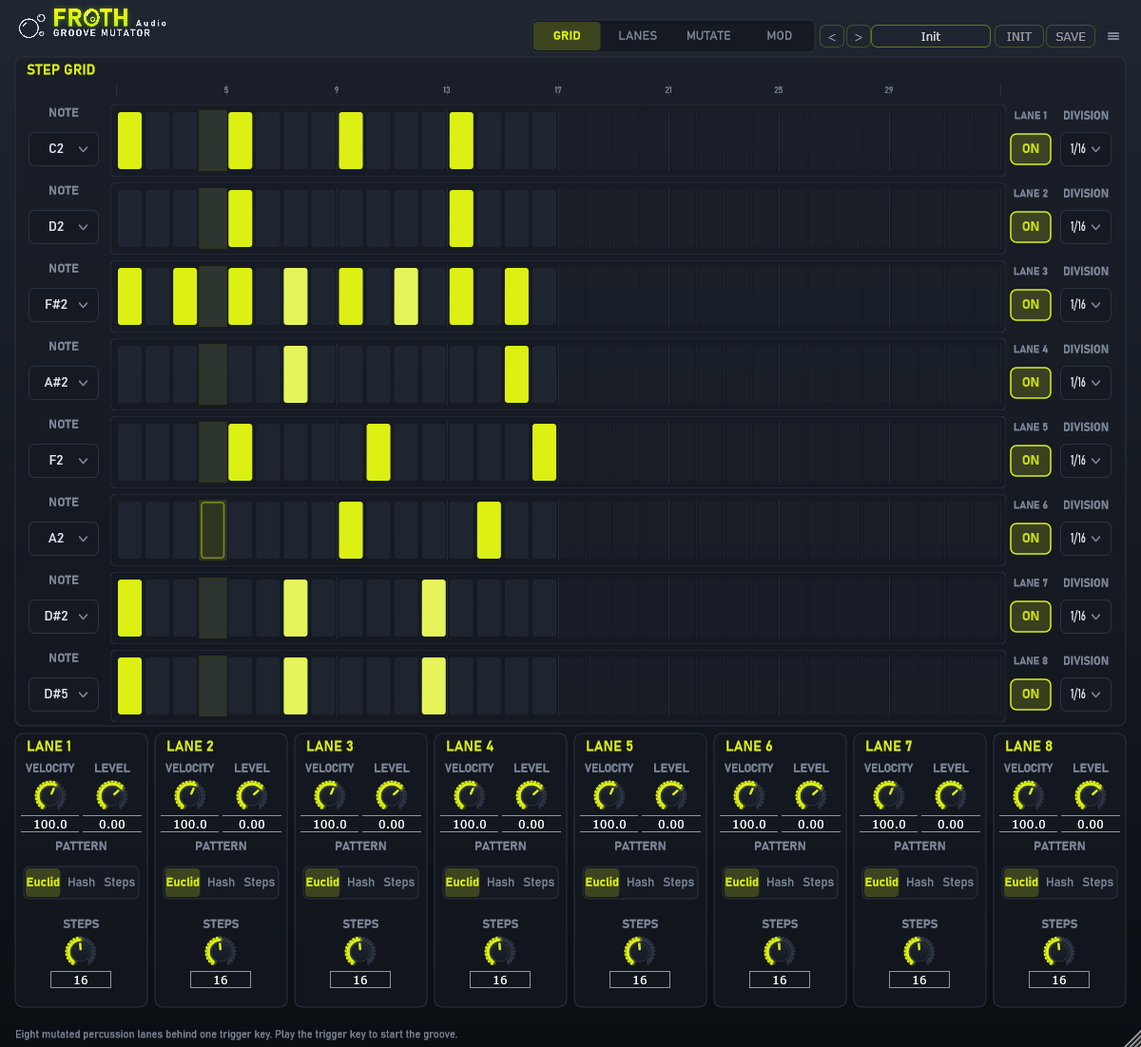
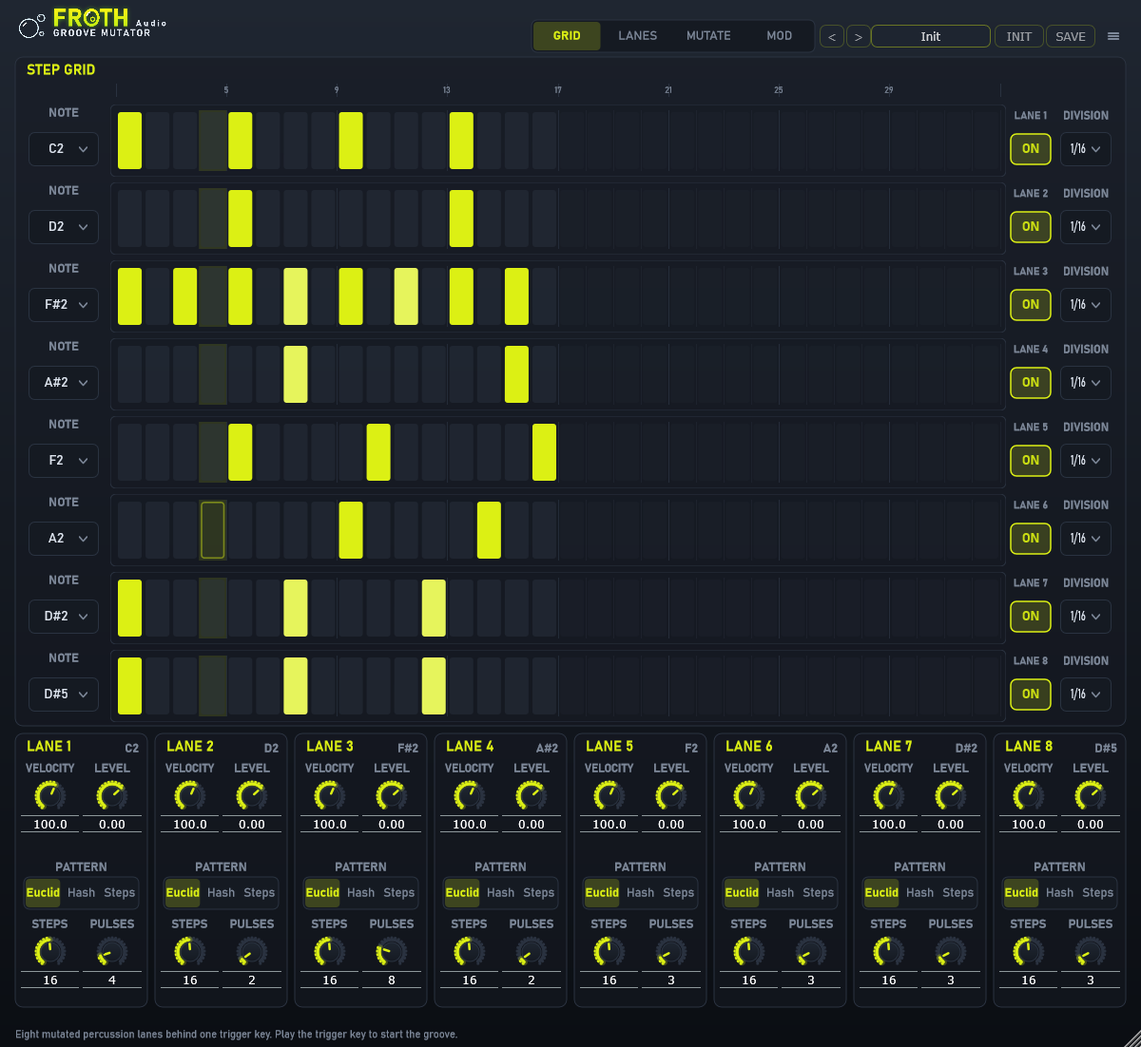
feat(GrooveMutator): Implement findings round 4, including PULSES beside STEPS on GRID and read-only STEP GRID preview on LANES

diff --git a/plugins/GrooveMutator/Source/PluginEditor.cpp b/plugins/GrooveMutator/Source/PluginEditor.cpp
@@ -25,6 +25,18 @@ namespace
     // larger" permission. 92 px is the pre-0.7 suite cell; 92 − 18 caption ≥ 64 px slider
     // bounds, so these knobs render at the full suite 40 px.
     constexpr int lanesKnobRowHeight = 92;
+    // Findings round 4: the PATTERN selector hugs the bottom of its row (caption directly
+    // on the pill, the spare height above the caption).
+    constexpr int patternCellHeight = SuiteUI::captionHeight + SuiteUI::pillHeight;
+    // Findings round 4, finding 2: the LANES page's read-only STEP GRID preview — eight
+    // miniature LaneViews in a framed group above the lane cards.
+    constexpr int previewStripHeight = 28;
+    constexpr int previewRowGap = 4;
+    // Each strip's "LANE n" label, left of it (the owner's follow-up).
+    constexpr int previewNameWidth = 50;
+    constexpr int previewNameGap = 8;
+    constexpr int previewGroupHeight = groupTitleHeight + 4
+                                     + 8 * previewStripHeight + 7 * previewRowGap + 8;
     // The note dropdown and ruler share the same left inset; velocity and level live below.
     constexpr int laneNameWidth = 82;
     constexpr int laneNameGap = 8;
@@ -127,6 +139,23 @@ GrooveMutatorEditor::GrooveMutatorEditor (GrooveMutatorProcessor& p)
     // The eight lane cards before setSize() as well: the first resized() walks them.
     for (int track = 0; track < GrooveMutatorProcessor::numTracks; ++track)
         lanes[(size_t) track] = std::make_unique<LaneCard> (processor, track, juce::Colour (0xffdcf014));
+
+    // The LANES page's preview strips before setSize() too (they are laid out on page 1).
+    for (int track = 0; track < GrooveMutatorProcessor::numTracks; ++track)
+    {
+        gridPreviews[(size_t) track] = std::make_unique<LaneView> (processor, track,
+                                                                   juce::Colour (0xffdcf014), true);
+        addAndMakeVisible (*gridPreviews[(size_t) track]);
+
+        // The strip's lane name (the owner's follow-up to the preview).
+        auto& previewName = previewNames[(size_t) track];
+        previewName.setText ("LANE " + juce::String (track + 1), juce::dontSendNotification);
+        previewName.setJustificationType (juce::Justification::centredRight);
+        previewName.setFont (SuiteUI::uiFont (11.0f, true));
+        previewName.setColour (juce::Label::textColourId, SuiteUI::Colours::textDim);
+        previewName.setInterceptsMouseClicks (false, false);
+        addAndMakeVisible (previewName);
+    }
 
     setSize (editorWidth, editorHeight);
     setResizable (true, true);
@@ -323,7 +352,9 @@ void GrooveMutatorEditor::setPage (int newPage)
     for (auto& card : lanes)
     {
         card->view.setVisible (currentPage == 0);
-        card->name.setVisible (currentPage == 1);
+        // Finding 4: the note name rides right of the "LANE n" caption on both the GRID
+        // lane-mix groups and the LANES title bands (the timer keeps it in step).
+        card->name.setVisible (currentPage == 0 || currentPage == 1);
         card->laneNameLabel.setVisible (currentPage == 0);
         card->noteDropdown.setVisible (currentPage == 0);
         card->velCtrl.setVisible (currentPage == 0);
@@ -333,12 +364,17 @@ void GrooveMutatorEditor::setPage (int newPage)
 
         card->patternCtrl.setVisible (currentPage == 0);
         card->stepsCtrl.setVisible (currentPage == 0);
-        card->pulsesCtrl.setVisible (currentPage == 1);
+        card->pulsesCtrl.setVisible (currentPage == 0);
         card->rotationCtrl.setVisible (currentPage == 1);
         card->accentCtrl.setVisible (currentPage == 1);
         card->flamCtrl.setVisible (currentPage == 1);
         card->ghostCtrl.setVisible (currentPage == 1);
     }
+
+    for (auto& preview : gridPreviews)
+        preview->setVisible (currentPage == 1);
+    for (auto& previewName : previewNames)
+        previewName.setVisible (currentPage == 1);
 
     trailPlot.setVisible (currentPage == 2);
     chaosCtrl.setVisible (currentPage == 2);
@@ -387,8 +423,11 @@ void GrooveMutatorEditor::paint (juce::Graphics& g)
     }
     else if (currentPage == 1)
     {
+        // The read-only STEP GRID preview above the lane cards (findings round 4).
+        SuiteUI::drawGroupFrame (g, previewBounds, "STEP GRID", lookAndFeel.getAccent());
+
         // One framed column per lane (plan 22, Finding 6): eight channel strips, each with
-        // the lane label and note name, the pattern selector and the six knobs.
+        // the lane label and note name, and the articulation knobs.
         for (int track = 0; track < GrooveMutatorProcessor::numTracks; ++track)
             SuiteUI::drawGroupFrame (g, laneBounds[(size_t) track],
                                      "LANE " + juce::String (track + 1), lookAndFeel.getAccent());
@@ -495,15 +534,32 @@ void GrooveMutatorEditor::resized()
             card.velCtrl.setBounds (row1.removeFromLeft (controlWidth).reduced (2, 0));
             card.levelCtrl.setBounds (row1.reduced (2, 0));
 
-            // Phase 24.2: PATTERN and STEPS now live on the GRID lane-control group, one
-            // per row (the plan's Option A — sharing a row with a knob — truncates the
-            // three-segment selector to illegibility at this 131 px group width, confirmed
-            // by the first render; Option B's extra height fits: window 1102 < 1200).
+            // Phase 24.2 / findings round 4: PATTERN and STEPS (+PULSES) live on the GRID
+            // lane-control group, one row each. The selector hugs the bottom of its row
+            // (finding 3: the caption sits directly on the pill, the spare height above
+            // the caption); a full-width pill is required — sharing a row with a knob
+            // truncates the three segments to illegibility (the plan-24 render finding).
             controlsArea.removeFromTop (rowGap);
-            card.patternCtrl.setBounds (controlsArea.removeFromTop (knobRowHeight).reduced (2, 0));
+            {
+                auto patternRow = controlsArea.removeFromTop (knobRowHeight);
+                card.patternCtrl.setBounds (patternRow.removeFromBottom (patternCellHeight)
+                                                .reduced (2, 0));
+            }
 
+            // Finding 1: PULSES moved from LANES beside STEPS, the same split as above.
             controlsArea.removeFromTop (rowGap);
-            card.stepsCtrl.setBounds (controlsArea.removeFromTop (knobRowHeight));
+            {
+                auto stepsRow = controlsArea.removeFromTop (knobRowHeight);
+                card.stepsCtrl.setBounds (stepsRow.removeFromLeft (stepsRow.getWidth() / 2)
+                                              .reduced (2, 0));
+                card.pulsesCtrl.setBounds (stepsRow.reduced (2, 0));
+            }
+
+            // Finding 4: the note name rides in the group's title band, right of the
+            // "LANE n" caption (the LANES title-band pattern; the timer keeps it in step).
+            card.name.setBounds (laneBounds[(size_t) track]
+                                     .withHeight (groupTitleHeight + 4).translated (0, 4)
+                                     .removeFromRight (44).reduced (4, 0));
 
             if (track < GrooveMutatorProcessor::numTracks - 1)
                 area.removeFromLeft (groupGap);
@@ -511,13 +567,29 @@ void GrooveMutatorEditor::resized()
     }
     else if (currentPage == 1)
     {
-        // Plan 22, Finding 6: eight columns, one framed card per lane. Every card is the
-        // page's full height: the label band, then the five articulation knobs evenly
-        // spread down the column (a channel strip). PATTERN and STEPS moved to the GRID
-        // lane-control group (plan 24), so the rows use the taller lanesKnobRowHeight.
-        // The cards stop above the footer band, exactly where the GRID group ends on
-        // page 0.
+        // Findings round 4, finding 2: the read-only STEP GRID preview band above the lane
+        // cards, then plan 22, Finding 6's eight framed columns. The cards fill what
+        // remains below the preview, stopping above the footer band.
         area.removeFromBottom (footerHeight);
+        previewBounds = area.removeFromTop (previewGroupHeight);
+
+        {
+            auto previewInner = previewBounds.withTrimmedTop (groupTitleHeight + 4)
+                                             .reduced (10, 4);
+            for (int track = 0; track < GrooveMutatorProcessor::numTracks; ++track)
+            {
+                auto previewRow = previewInner.removeFromTop (previewStripHeight);
+                previewNames[(size_t) track].setBounds (previewRow.removeFromLeft (previewNameWidth));
+                previewRow.removeFromLeft (previewNameGap);
+                gridPreviews[(size_t) track]->setBounds (previewRow);
+
+                if (track < GrooveMutatorProcessor::numTracks - 1)
+                    previewInner.removeFromTop (previewRowGap);
+            }
+        }
+
+        area.removeFromTop (groupGap);
+
         constexpr int numLanes = GrooveMutatorProcessor::numTracks;
         const int cardWidth = (area.getWidth() - (numLanes - 1) * groupGap) / numLanes;
 
@@ -535,15 +607,15 @@ void GrooveMutatorEditor::resized()
             auto inner = cardArea.withTrimmedTop (groupTitleHeight + 4).reduced (4, 0)
                                  .withTrimmedBottom (8);
 
-            // Five knobs, one per row, with the spare height shared between the rows.
-            constexpr int rows = 5;
+            // Four articulation knobs, one per row (Pulses moved to GRID, findings
+            // round 4), with the spare height shared between the rows.
+            constexpr int rows = 4;
             const int spare = inner.getHeight() - rows * lanesKnobRowHeight;
             const int gap = juce::jmax (rowGap, spare / rows);
             inner.removeFromTop (gap);
 
             SuiteUI::LabelledSlider* knobRows[rows] =
-                { &card.pulsesCtrl, &card.rotationCtrl,
-                  &card.accentCtrl, &card.flamCtrl, &card.ghostCtrl };
+                { &card.rotationCtrl, &card.accentCtrl, &card.flamCtrl, &card.ghostCtrl };
 
             for (int row = 0; row < rows; ++row)
             {
@@ -651,6 +723,9 @@ void GrooveMutatorEditor::timerCallback()
     trailPlot.repaint();
     for (auto& card : lanes)
         card->view.repaint();
+    // The LANES preview strips follow the same truth as the GRID ones (findings round 4).
+    for (auto& preview : gridPreviews)
+        preview->repaint();
 
     // The lane names follow the notes (the MTC/Sgraffito note-name pattern).
     for (auto& card : lanes)

diff --git a/plugins/GrooveMutator/Source/PluginEditor.h b/plugins/GrooveMutator/Source/PluginEditor.h
@@ -40,6 +40,8 @@ public:
     bool isNoteDropdownVisible (int track) const noexcept { return lanes[(size_t) track]->noteDropdown.isVisible(); }
     bool isPatternVisible (int track) const noexcept { return lanes[(size_t) track]->patternCtrl.isVisible(); }
     bool isStepsVisible (int track) const noexcept { return lanes[(size_t) track]->stepsCtrl.isVisible(); }
+    bool isPulsesVisible (int track) const noexcept { return lanes[(size_t) track]->pulsesCtrl.isVisible(); }
+    bool isGridPreviewVisible (int track) const noexcept { return gridPreviews[(size_t) track]->isVisible(); }
     bool isTempoEnabled() const noexcept { return tempoCtrl.isEnabled(); }
 
 private:
@@ -107,6 +109,13 @@ private:
 
     std::array<std::unique_ptr<LaneCard>, GrooveMutatorProcessor::numTracks> lanes;
 
+    // The LANES page's read-only STEP GRID preview (findings round 4, finding 2): eight
+    // preview-mode LaneViews above the lane cards. They paint the same truth as the GRID
+    // strips and answer no mouse.
+    std::array<std::unique_ptr<LaneView>, GrooveMutatorProcessor::numTracks> gridPreviews;
+    // Each preview strip's "LANE n" name, left of it (the owner's follow-up).
+    std::array<juce::Label, GrooveMutatorProcessor::numTracks> previewNames;
+
     // MUTATE page: the attractor trail, chaos/fill, and the former GROOVE/clock groups.
     SuiteUI::TrailPlot trailPlot { juce::Colour (0xffdcf014) };
     SuiteUI::LabelledSlider chaosCtrl { "CHAOS", juce::Slider::RotaryVerticalDrag };
@@ -154,7 +163,7 @@ private:
     std::unique_ptr<SuiteModulation::ControlDisplay> controls;
 
     // The group frames and the ruler strip, painted per page (R14b).
-    juce::Rectangle<int> gridBounds, rulerBounds;
+    juce::Rectangle<int> gridBounds, rulerBounds, previewBounds;
     std::array<juce::Rectangle<int>, GrooveMutatorProcessor::numTracks> laneBounds;
     juce::Rectangle<int> trailBounds, chaosBounds, fillBounds;
     juce::Rectangle<int> grooveBounds, clockBounds, modBounds;

diff --git a/plugins/GrooveMutator/Source/LaneView.cpp b/plugins/GrooveMutator/Source/LaneView.cpp
@@ -10,12 +10,22 @@ namespace
     }
 }
 
-LaneView::LaneView (GrooveMutatorProcessor& p, int trackIndex, juce::Colour accentColour)
+LaneView::LaneView (GrooveMutatorProcessor& p, int trackIndex, juce::Colour accentColour,
+                     bool previewStrip)
     : processor (p),
       track (trackIndex),
-      accent (accentColour)
+      accent (accentColour),
+      preview (previewStrip)
 {
-    setMouseCursor (juce::MouseCursor::PointingHandCursor);
+    if (preview)
+    {
+        // The preview strip never answers the mouse (finding 2: non-editable).
+        setInterceptsMouseClicks (false, false);
+    }
+    else
+    {
+        setMouseCursor (juce::MouseCursor::PointingHandCursor);
+    }
     setOpaque (false);
 }
 
@@ -125,7 +135,8 @@ void LaneView::paint (juce::Graphics& g)
     }
 
     // The Steps-mode affordance: the strip answers the draw-mode rule (plan 19 Phase 3).
-    if (stepsMode)
+    // The preview strips skip it (they are never editable).
+    if (stepsMode && ! preview)
     {
         g.setColour (SuiteUI::Colours::textDim);
         g.setFont (SuiteUI::uiFont (9.0f));

diff --git a/plugins/GrooveMutator/Source/LaneView.h b/plugins/GrooveMutator/Source/LaneView.h
@@ -16,11 +16,17 @@
     Draw mode: clicking a cell paints or erases the step while the lane's pattern is
     Steps (kind 2); in Euclid and Hash modes the strip is read-only (the pattern comes
     from the maths, not from a mask).
+
+    Preview strips (owner findings round 4, finding 2): constructed with previewStrip =
+    true they are the same painter as a non-editable miniature — no pointer cursor, no
+    mouse events, no "draw" affordance. The LANES page stacks eight of them as a compact
+    read-only STEP GRID preview.
 */
 class LaneView : public juce::Component
 {
 public:
-    LaneView (GrooveMutatorProcessor& processor, int track, juce::Colour accentColour);
+    LaneView (GrooveMutatorProcessor& processor, int track, juce::Colour accentColour,
+              bool previewStrip = false);
 
     void paint (juce::Graphics&) override;
     void mouseDown (const juce::MouseEvent&) override;
@@ -29,6 +35,7 @@ private:
     GrooveMutatorProcessor& processor;
     const int track;
     juce::Colour accent;
+    const bool preview;
 
     JUCE_DECLARE_NON_COPYABLE_WITH_LEAK_DETECTOR (LaneView)
 };

diff --git a/plugins/GrooveMutator/tests/PluginTests.cpp b/plugins/GrooveMutator/tests/PluginTests.cpp
@@ -785,6 +785,10 @@ namespace
                 // Plan 24: PATTERN and STEPS live on the GRID lane-control group.
                 assert (gm.isPatternVisible (track) == (page == 0));
                 assert (gm.isStepsVisible (track) == (page == 0));
+                // Findings round 4: PULSES beside STEPS on GRID; the read-only preview
+                // strips live on LANES only.
+                assert (gm.isPulsesVisible (track) == (page == 0));
+                assert (gm.isGridPreviewVisible (track) == (page == 1));
             }
             const auto first = paintComponent (gm);
             const auto second = paintComponent (gm);

diff --git a/plugins/GrooveMutator/MANUAL.md b/plugins/GrooveMutator/MANUAL.md
@@ -23,31 +23,35 @@ the MOD page uses a royal-blue LFO preview accent.
 The musical view: eight lane rows over a shared step ruler, with eight compact lane-mix
 columns below them. Each row carries the lane's pattern strip (the LaneView), note selector,
 division and on/off control, with the lane's name (**LANE 1** … **LANE 8**) directly above
-the on/off control, so every row is tied to its column below without switching pages:
+the on/off control and the lane's note right of the column's title, so every row is tied to
+its column below without switching pages:
 
 | Control | Range | What it does |
 |---|---|---|
 | **Pattern strip** | — | The lane's pattern. A filled box is a hit, a brighter box an accent, a ring a ghost, a hollow box a fill addition (audible, but not one of your painted steps) and a hole in the box a flam — the same hash rules the scheduler uses. Off steps are a faint box and cells beyond the lane's Steps a dimmer one, so the pattern and its length read at a glance. The playhead column marks the step the lane is on. In **Steps** mode the strip answers draw mode: click a cell to paint or erase that step (the painted pattern travels with the session). Steps lanes are the authoring mode — Chaos never moves a painted pattern, so the strip always matches what plays. In Euclid and Hash modes the strip shows the live, mutated pattern and is read-only. |
-| **Note** | 24 – 96 | The dropdown selects the GM note the lane sends (shown as a note name). Defaults walk the drum map: kick, snare, closed/open hat, low/mid tom, clap, claves. |
+| **Note** | 24 – 96 | The dropdown selects the GM note the lane sends (shown as a note name). Defaults walk the drum map: kick, snare, closed/open hat, low/mid tom, clap, claves. The selected note is also shown right of the matching column's title below the strips. |
 | **On** | on / off | The lane plays while it is on. Tracks 1–4 are on by default. The lane's name sits right above it. |
 | **Division** | 1/32 … 1 Bar | The lane's own step length, scaled by the master Polyrhythm. |
 | **Velocity** | 30 – 150 % | The lane's velocity share, in the matching column below the strips. A modulation target (one per lane). |
 | **Level** | −24 – +12 dB | The lane's level stage, beside Velocity below the strips. A modulation target (one per lane). |
 | **Pattern** | Euclid / Hash / Steps | The lane's pattern kind, in the matching column below the strips. Euclid spreads the Pulses evenly over the Steps (with Rotation); Hash uses the seeded pattern (Pulses read as density); Steps plays the painted mask. |
 | **Steps** | 1 – 32 | The pattern length, beside Pattern. Re-derives the lane's mask. |
+| **Pulses** | 0 – 32 | The hit count, beside Steps. Dimmed for Steps lanes. |
 
 ## Page: LANES
 
 <img src="../../docs/manuals/groovemutator-lanes.png" alt="LANES page" width="800">
 
 One framed column per lane, titled **LANE 1** to **LANE 8** with the lane's note name in the
-title band. Each column holds the lane's five articulation knobs (the pattern selector and
-the Steps length moved to the GRID page's lane columns), so a lane's articulation is read
-top to bottom in one place:
+title band. Above the columns a compact, read-only **STEP GRID** preview shows all eight
+lanes' patterns at once, each strip named **LANE 1** … **LANE 8** at its left (the same
+painter as the GRID strips — boxes, fills, ghosts, flams and the playhead — but it answers
+no mouse; painting happens on GRID). Each column holds the
+lane's four articulation knobs (the pattern selector, Steps and Pulses moved to the GRID
+page's lane columns):
 
 | Control | Range | What it does |
 |---|---|---|
-| **Pulses** | 0 – 32 | The hit count. Dimmed for Steps lanes. |
 | **Rotation** | 0 – 32 | Shifts the Euclid pattern around the grid. Dimmed for Hash and Steps lanes (the maths ignores it there). |
 | **Accent** | 0 – 100 % | The share of accent hits (× 1.3 velocity). |
 | **Flam** | 0 – 100 % | The share of flammed hits: a second, quieter hit 6–12 ms later, deterministic from the seed. |

diff --git a/AGENTS.md b/AGENTS.md
@@ -551,11 +551,12 @@ shared ruler, plus the lane-mix group's three knob rows; R4). Plan 22 (owner fin
 2): the GRID strip fills its column, the shared ruler aligns to the strips, and every step is
 a rounded box. Plan 24 (owner findings round 3): each GRID row carries a "LANE n" caption
 above the ON toggle, and the PATTERN selector and STEPS knob moved from LANES to the GRID
-lane-control group (three knob rows per lane: Velocity+Level, Pattern, Steps — the selector
-needs the full group width; sharing a row with a knob truncates it to illegibility). The
-LANES page is eight columns, one framed card per lane, with the note name in the title band
-and the five articulation knobs (Pulses, Rotation, Accent, Flam, Ghost) in taller 92 px rows
-— the full suite 40 px knob. The header paints the embedded brand lockup. The painted Steps
+lane-control group. The header paints the embedded brand lockup. Findings round 4
+(2026-11-28): the GRID lane-control group is Velocity+Level, Pattern (the selector hugs its
+row's bottom: caption directly on the pill, spare height above), Steps+Pulses; the lane
+columns' title bands show the lane name left and the selected note right (the LANES
+pattern); the LANES page stacks eight read-only preview-mode LaneViews as a compact STEP
+GRID preview above the four articulation columns (Rotation, Accent, Flam, Ghost). The painted Steps
 masks ride as the `stepsMasks` state property (8 hex tokens; the lerpCurve pattern), re-derived
 through the lane signature like any pattern-defining value.
 
@@ -832,6 +833,12 @@ Mouse events in tests use the 15-argument `juce::MouseEvent` constructor, which 
 - **"LANE n" above the ON toggle** (Finding 1): each GRID step row gains a static `laneNameLabel` caption (`captionHeight` band carved off the toggle's cell top) tying the row to its already-titled lane-control group below. It is a separate widget from LANES's note-name `name` label, whose timer rewrite it must not inherit.
 - **PATTERN and STEPS moved to GRID** (Finding 2): the GRID lane-control group is three knob rows (Velocity+Level, then Pattern, then Steps); LANES keeps the five articulation knobs. The plan's two-row variant (selector + knob sharing a row) was refuted by the first render — a three-segment selector is illegible in a 64 px cell — so the plan's Option B applies. Window 938 → 1102 (inside the 1200 resize limit).
 - **Knob sizing (the plan-21 C2 resolution):** the unused local `knobDiameter` constant is deleted (it sized nothing — the drawn diameter follows the cell height). GRID keeps its 76 px cells (≈34 px knobs); LANES uses a new `lanesKnobRowHeight` (92 px) whose knobs render at the full suite 40 px — the owner's "GRID smaller / LANES larger" permission. Strict R1 conformance (all knobs 40 px) was not chosen; GRID rows and MUTATE groups are byte-identical to plan 22's renders.
+
+**Groove Mutator owner findings round 4 (2026-11-28, direct implementation — no plan file):**
+- **PULSES beside STEPS on GRID** (Finding 1): the GRID lane group's third row splits like Velocity+Level. PULSES keeps its affinity dimming (Steps lanes) on GRID — `updateAffinity` is page-independent.
+- **A read-only STEP GRID preview on LANES** (Finding 2): `LaneView` gained a `previewStrip` constructor flag — same painter, no pointer cursor, no mouse events, no "draw" affordance. The editor stacks eight preview strips in a framed "STEP GRID" group above the four articulation columns and repaints them from the 60 Hz timer. Each strip carries its "LANE n" name at its left (the owner's follow-up; 50 px label + 8 px gap, the `captionHeight`-era laneNameLabel style).
+- **The PATTERN selector hugs its row's bottom** (Finding 3): a plugin-local cell of exactly `captionHeight + pillHeight` — caption directly on the pill, the spare height above the caption. No shared-widget change (R1/R3 untouched).
+- **The note rides the GRID lane columns' title bands** (Finding 4): `card.name` is visible on GRID and LANES, right of the drawn "LANE n" caption (44 px cell, the timer keeps it in step).
 
 ---
 

diff --git a/CHANGELOG.md b/CHANGELOG.md
@@ -9,7 +9,8 @@ All notable changes to this project are documented here. The format follows
 ### Changed
 - Plan 24 - the Groove Mutator owner findings round 3, implemented and verified (21/21 GrooveMutatorTests):
   - **"LANE n" above the ON toggle on GRID**: each step row now names its lane right above the on/off control, so a row is tied to its lane-mix column below without switching pages.
-  - **PATTERN and STEPS moved to GRID**: the lane-mix columns below the step grid hold three knob rows per lane (Velocity + Level, then Pattern, then Steps); the LANES page keeps the five articulation knobs (Pulses, Rotation, Accent, Flam, Ghost) in taller 92 px rows, rendering at the full suite 40 px knob (the owner's "GRID smaller / LANES larger" permission; the GRID rows keep their compact cells). The window is 1200×1102.
+  - **PATTERN and STEPS moved to GRID**: the lane-mix columns below the step grid hold three knob rows per lane (Velocity + Level, then Pattern, then Steps); the LANES page keeps the articulation knobs (Pulses, Rotation, Accent, Flam, Ghost) in taller 92 px rows, rendering at the full suite 40 px knob (the owner's "GRID smaller / LANES larger" permission; the GRID rows keep their compact cells). The window is 1200×1102.
+- Groove Mutator owner findings round 4, implemented and verified (21/21 GrooveMutatorTests): **PULSES moved beside STEPS** on GRID (the LANES columns keep Rotation/Accent/Flam/Ghost); the LANES page gained a **read-only STEP GRID preview** — eight miniature LaneViews (a new preview mode: the same painter, no mouse, no draw affordance), each named "LANE n" at its left, stacked in a framed group above the columns; the **PATTERN selector hugs its row's bottom** (caption directly on the pill, the spare space above the caption); the GRID lane columns' title bands show the **selected note right of the LANE n caption** (the LANES pattern). Window unchanged at 1200×1102.
 - Manual screenshots and R9 editor renders now use deterministic processor input for signal-driven views; release archives include a generated PDF for each plugin manual.
 - Groove Mutator's GRID now has a note dropdown for each lane and a lower row of eight Velocity/Level columns; MUTATE absorbs the former GROOVE page's feel and clock controls. The MOD preview uses royal blue (`#4169E1`) while the rest of the editor keeps its lemon accent.
 - Groove Mutator modulation is now consumed by the scheduler for all 46 targets: six master controls plus Velocity, Level, Accent, Flam and Ghost for each lane. The shared router's capacity now fits those targets plus the `None` choice; the editor displays routed values, and processor tests assert that each new lane-target family changes delivered MIDI.
